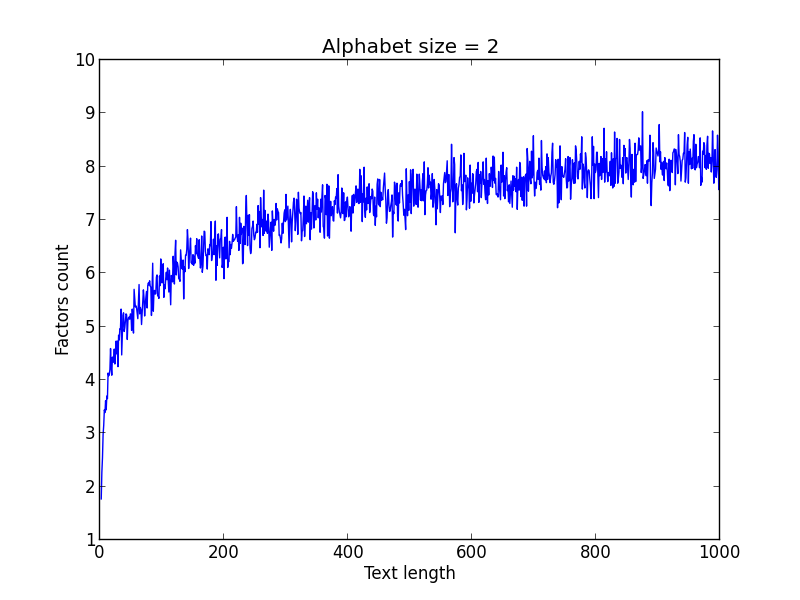
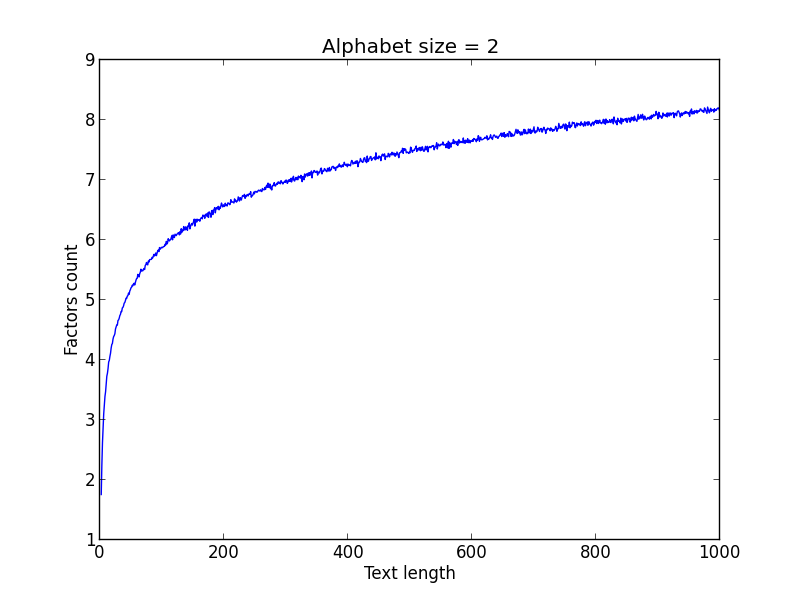
more experiments

diff --git a/src/py/checker.py b/src/py/checker.py
@@ -6,9 +6,9 @@ import subprocess
 from random import choice
 
 import pylab as pl
+import numpy as np
 
-
-EXPERIMENTS = 1000
+EXPERIMENTS = 10000
 LENGTH = 1000
 AVAILABLE_LETTERS = string.lowercase + string.uppercase + string.digits
 
@@ -44,33 +44,58 @@ def is_lyndon_decomposition(word, factor_positions):
     return True
 
 if __name__ == '__main__':
-    print 'Testing duval algorithm in series of {} experiments...'.format(EXPERIMENTS)
-    for _ in xrange(EXPERIMENTS):
-        text = random_string(LENGTH, len(AVAILABLE_LETTERS))
-        process = subprocess.Popen(['../../bin/duval', text], stdout=subprocess.PIPE)
-        output = process.stdout.read().strip()
-        factor_positions = map(int, output.splitlines()[1].split())
-        assert is_lyndon_decomposition(text, factor_positions)
-    print 'OK'
-
-    alphabet_sizes = range(2, len(AVAILABLE_LETTERS) + 1)
-    for length in [10, 100, 500, 999]:
+    for alphabet_size in xrange(50, 51):
         average_values = []
-        print 'Plotting for length: {}'.format(length)
-        for alphabet_size in alphabet_sizes:
+        print 'Plotting for alphabet size: {}'.format(alphabet_size)
+        for length in xrange(1, LENGTH + 1):
+            print 'Length:', length
             values = []
-            for _ in xrange(EXPERIMENTS / 10):
+            for _ in xrange(EXPERIMENTS):
+                print 'Exp:', _
                 text = random_string(length, alphabet_size)
                 process = subprocess.Popen(['../../bin/duval', text], stdout=subprocess.PIPE)
                 output = process.stdout.read().strip()
                 words_count = int(output.splitlines()[0].split()[-1].strip())
-                factor_positions = map(int, output.splitlines()[1].split())
-                assert is_lyndon_decomposition(text, factor_positions)
                 values.append(words_count)
-            average_values.append(sum(values) * 1.0 / len(values))
-        pl.plot(alphabet_sizes, average_values)
-        pl.title('Text length = {}'.format(length))
-        pl.xlabel('Alphabet size')
+            average_values.append(np.average(values))
+        pl.plot(xrange(LENGTH), average_values)
+        pl.title('Alphabet size = {}'.format(alphabet_size))
+        pl.xlabel('Text length')
         pl.ylabel('Factors count')
-        pl.savefig('../../results/py-length-{}.png'.format(length))
+        pl.savefig('../../results/py-alphabet-{}.png'.format(alphabet_size))
         pl.clf()
+
+
+    # print 'Testing duval algorithm in series of {} experiments...'.format(EXPERIMENTS)
+    # for _ in xrange(EXPERIMENTS):
+    #     text = random_string(LENGTH, len(AVAILABLE_LETTERS))
+    #     process = subprocess.Popen(['../../bin/duval', text], stdout=subprocess.PIPE)
+    #     output = process.stdout.read().strip()
+    #     factor_positions = map(int, output.splitlines()[1].split())
+    #     assert is_lyndon_decomposition(text, factor_positions)
+    # print 'OK'
+
+    # alphabet_sizes = range(2, len(AVAILABLE_LETTERS) + 1)
+    # for length in [10, 100, 500, 999]:
+    #     average_values = []
+    #     print 'Plotting for length: {}'.format(length)
+    #     for alphabet_size in alphabet_sizes:
+    #         values = []
+    #         for _ in xrange(EXPERIMENTS / 10):
+    #             text = random_string(length, alphabet_size)
+    #             process = subprocess.Popen(['../../bin/duval', text], stdout=subprocess.PIPE)
+    #             output = process.stdout.read().strip()
+    #             words_count = int(output.splitlines()[0].split()[-1].strip())
+    #             factor_positions = map(int, output.splitlines()[2].split())
+    #             assert is_lyndon_decomposition(text, factor_positions)
+    #             values.append(words_count)
+    #         average_values.append(sum(values) * 1.0 / len(values))
+    #     pl.plot(alphabet_sizes, average_values)
+    #     pl.title('Text length = {}'.format(length))
+    #     pl.xlabel('Alphabet size')
+    #     pl.ylabel('Factors count')
+    #     pl.savefig('../../results/py-length-{}.png'.format(length))
+    #     pl.clf()
+
+        # alphabet_sizes = range(2, len(AVAILABLE_LETTERS) + 1)
+

diff --git a/src/py/graph.py b/src/py/graph.py
@@ -3,32 +3,34 @@ import sys
 from collections import defaultdict
 
 import pylab as pl
+import numpy as np
 
 if __name__ == '__main__':
-    if len(sys.argv) < 3:
-        print 'Usage: {} RANDOM_FILENAME GENOM_FILENAME'.format(sys.argv[0])
-        sys.exit(1)
     counts = defaultdict(lambda: defaultdict(float))
-    with open(sys.argv[1]) as fd:
+    print 'Reading...'
+    with open('../../result.txt') as fd:
         reader = csv.reader(fd, delimiter=' ')
         try:
             while True:
                 alphabet_size, length = map(int, reader.next())
                 all_counts = map(int, reader.next()[:-1])
-                counts[alphabet_size][length] = sum(all_counts) * 1.0 / len(all_counts)
+                counts[alphabet_size][length] = np.average(all_counts)
+                # counts[alphabet_size][length - length % 10].extend(all_counts)
         except StopIteration:
             pass
 
-        for alphabet_size in [2, 3, 5, 10, 50, 127]:
+        for alphabet_size in [2, 3, 5, 10, 100]:
+            print 'Plotting for alphabet size {}...'.format(alphabet_size)
             lengths = sorted(counts[alphabet_size])
-            pl.plot(lengths, map(counts[alphabet_size].get, lengths))
-            pl.title('Alphabet size = {}'.format(alphabet_size))
-            pl.xlabel('Text length')
-            pl.ylabel('Factors count')
-            pl.savefig('../../results/alphabet-{}.png'.format(alphabet_size))
-            pl.clf()
+            pl.plot(lengths, map(counts[alphabet_size].get, lengths), label='$\sigma = {}$'.format(alphabet_size))
+        pl.legend(loc=4)
+        pl.xlabel('Text length')
+        pl.ylabel('Factors count')
+        pl.savefig('../../results/alphabets.png')
+        pl.clf()
 
         for length in [10, 100, 500, 999]:
+            print 'Plotting for word length {}...'.format(length)
             sizes = sorted(counts)
             pl.plot(sizes, map(lambda x: counts[x][length], sizes))
             pl.title('Text length = {}'.format(length))

diff --git a/src/exp.c b/src/exp.c
@@ -2,11 +2,10 @@
 #include <string.h>
 #include <assert.h>
 #include <stdio.h>
-#include "duval.h"
+#include "algo/duval.h"
 
 #define LENGTH 1000
-#define EXPERIMENTS 100
-#define ALPHABET_SIZE 127
+#define EXPERIMENTS 10000
 
 char *rand_string(char *str, int n, int alphabet_size) {
     for (int i = 0; i < n; ++i) {
@@ -36,7 +35,10 @@ void save_random_strings_results() {
     freopen("/Users/alonger/HSE/stringology/strlib/result.txt", "wt", stdout);
     int * buffer = calloc(LENGTH + 1, sizeof(int));
     char * text = calloc(LENGTH + 1, sizeof(char));
-    for (int alphabet_size = 2; alphabet_size <= ALPHABET_SIZE; ++alphabet_size) {
+
+    int alphabet_sizes[13] = {2,3,5,10,20,30,40,50,60,70,80,90,100};
+    for (int i = 0; i < 13; ++i) {
+        int alphabet_size = alphabet_sizes[i];
         for (int length = 2; length < LENGTH; ++length) {
             printf("%d %d\n", alphabet_size, length);
             for (int exp = 0; exp < EXPERIMENTS; ++exp) {
@@ -74,6 +76,6 @@ void save_ecoli_results() {
 }
 
 int main(int argc, char** argv) {
-    save_ecoli_results();
+    save_random_strings_results();
     return 0;
 }

diff --git a/src/duval.c b/src/duval.c
@@ -18,18 +18,23 @@ int main(int argc, char** argv) {
     int c;
     char * filename = NULL;
     bool human_friendly = false;
+    bool fasta = false;
     opterr = 1;
-    while ((c = getopt (argc, argv, "hf:")) != -1)
+    while ((c = getopt (argc, argv, "dhf:")) != -1)
         switch (c)
         {
             case 'f':
-                filename = (char *) optarg[0];
+                filename = argv[optind];
                 break;
             case 'h':
                 human_friendly = true;
                 break;
+            case 'd':
+                fasta = true;
+                break;
             case '?':
             case ':':
+                return -1;
             default:
                 usage(argv[0]);
                 return -1;

diff --git a/src/algo/kmp.h b/src/algo/kmp.h
@@ -3,3 +3,8 @@
 * TODO: more comments and docs
 */
 int kmp(const char * pattern, const char * text, int * output);
+
+/**
+* TODO: more comments and docs
+*/
+int longest_borderless_subword(const char * text, char * output);
